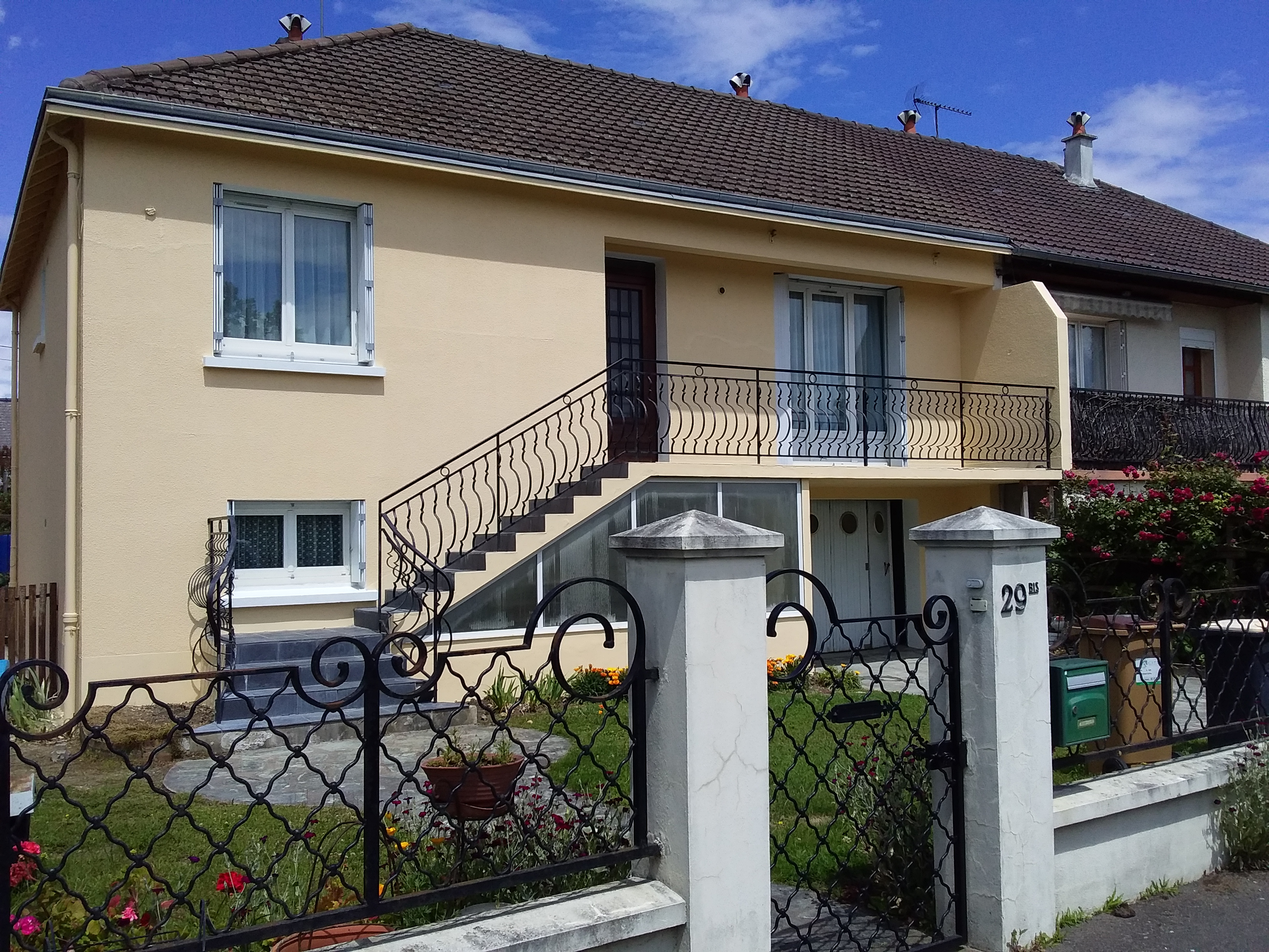
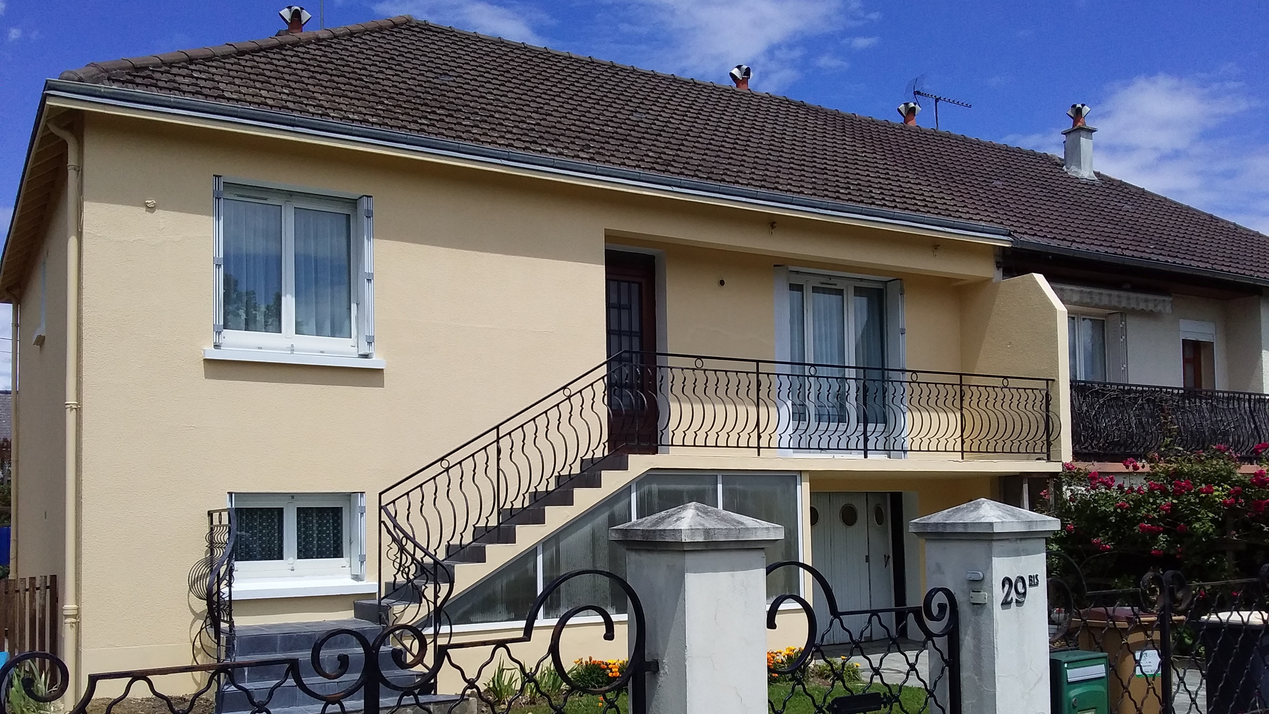
Modification pour que les photos est la même taille et ajout d'un formulaire pour envoie du devis

diff --git a/_site/index.html b/_site/index.html
@@ -195,29 +195,34 @@
             <div class="col-lg-8 col-lg-offset-2 text-center">
                 <h2 class="section-heading">Devis</h2>
                 <hr class="primary">
-                <form>
+                <form action="https://formspree.io/xwkrvnrp" method="POST">
                     <div class="form-group">
                         <label for="name">Votre Nom</label>
-                        <input type="text" class="form-control" id="name" aria-describedby="Nom">
+                        <input type="text" class="form-control" id="name" name="nom" aria-describedby="Nom">
                       </div>
                       <div class="form-group">
                         <label for="phone">Votre numéro de téléphone</label>
-                        <input type="number" class="form-control" id="phone" aria-describedby="téléphone">
+                        <input type="number" class="form-control" id="phone" name="telephone" aria-describedby="téléphone">
                       </div>
                       <div class="form-group">
                         <label for="email">Votre adresse Email</label>
-                        <input type="email" class="form-control" id="email" aria-describedby="email">
+                        <input type="email" class="form-control" id="email" name="_replyto" aria-describedby="email">
                       </div>
                       <div class="form-group">
                         <label for="adresse">Adresse du lieu des travaux</label>
-                        <input type="text" class="form-control" id="adresse" aria-describedby="adresse">
+                        <input type="text" class="form-control" id="adresse" name="adresse" aria-describedby="adresse">
                       </div>
+                      <div class="form-group">
+                        <label for="message">Autres informations</label>
+                        <textarea type="text" class="form-control" id="message" name="message" aria-describedby="message">
+                        </textarea>
+                      </div>
+                      <button type="submit" class="btn btn-primary">Envoyer</button>
                 </form>
             </div>
         </div>
     </div>
 </section>
-
   <section id="contact" class="bg-dark">
     <div class="container">
         <div class="row">

diff --git a/_includes/devis.html b/_includes/devis.html
@@ -4,23 +4,29 @@
             <div class="col-lg-8 col-lg-offset-2 text-center">
                 <h2 class="section-heading">Devis</h2>
                 <hr class="primary">
-                <form>
+                <form action="https://formspree.io/xwkrvnrp" method="POST">
                     <div class="form-group">
                         <label for="name">Votre Nom</label>
-                        <input type="text" class="form-control" id="name" aria-describedby="Nom">
+                        <input type="text" class="form-control" id="name" name="nom" aria-describedby="Nom">
                       </div>
                       <div class="form-group">
                         <label for="phone">Votre numéro de téléphone</label>
-                        <input type="number" class="form-control" id="phone" aria-describedby="téléphone">
+                        <input type="number" class="form-control" id="phone" name="telephone" aria-describedby="téléphone">
                       </div>
                       <div class="form-group">
                         <label for="email">Votre adresse Email</label>
-                        <input type="email" class="form-control" id="email" aria-describedby="email">
+                        <input type="email" class="form-control" id="email" name="_replyto" aria-describedby="email">
                       </div>
                       <div class="form-group">
                         <label for="adresse">Adresse du lieu des travaux</label>
-                        <input type="text" class="form-control" id="adresse" aria-describedby="adresse">
+                        <input type="text" class="form-control" id="adresse" name="adresse" aria-describedby="adresse">
                       </div>
+                      <div class="form-group">
+                        <label for="message">Autres informations</label>
+                        <textarea type="text" class="form-control" id="message" name="message" aria-describedby="message">
+                        </textarea>
+                      </div>
+                      <button type="submit" class="btn btn-primary">Envoyer</button>
                 </form>
             </div>
         </div>
